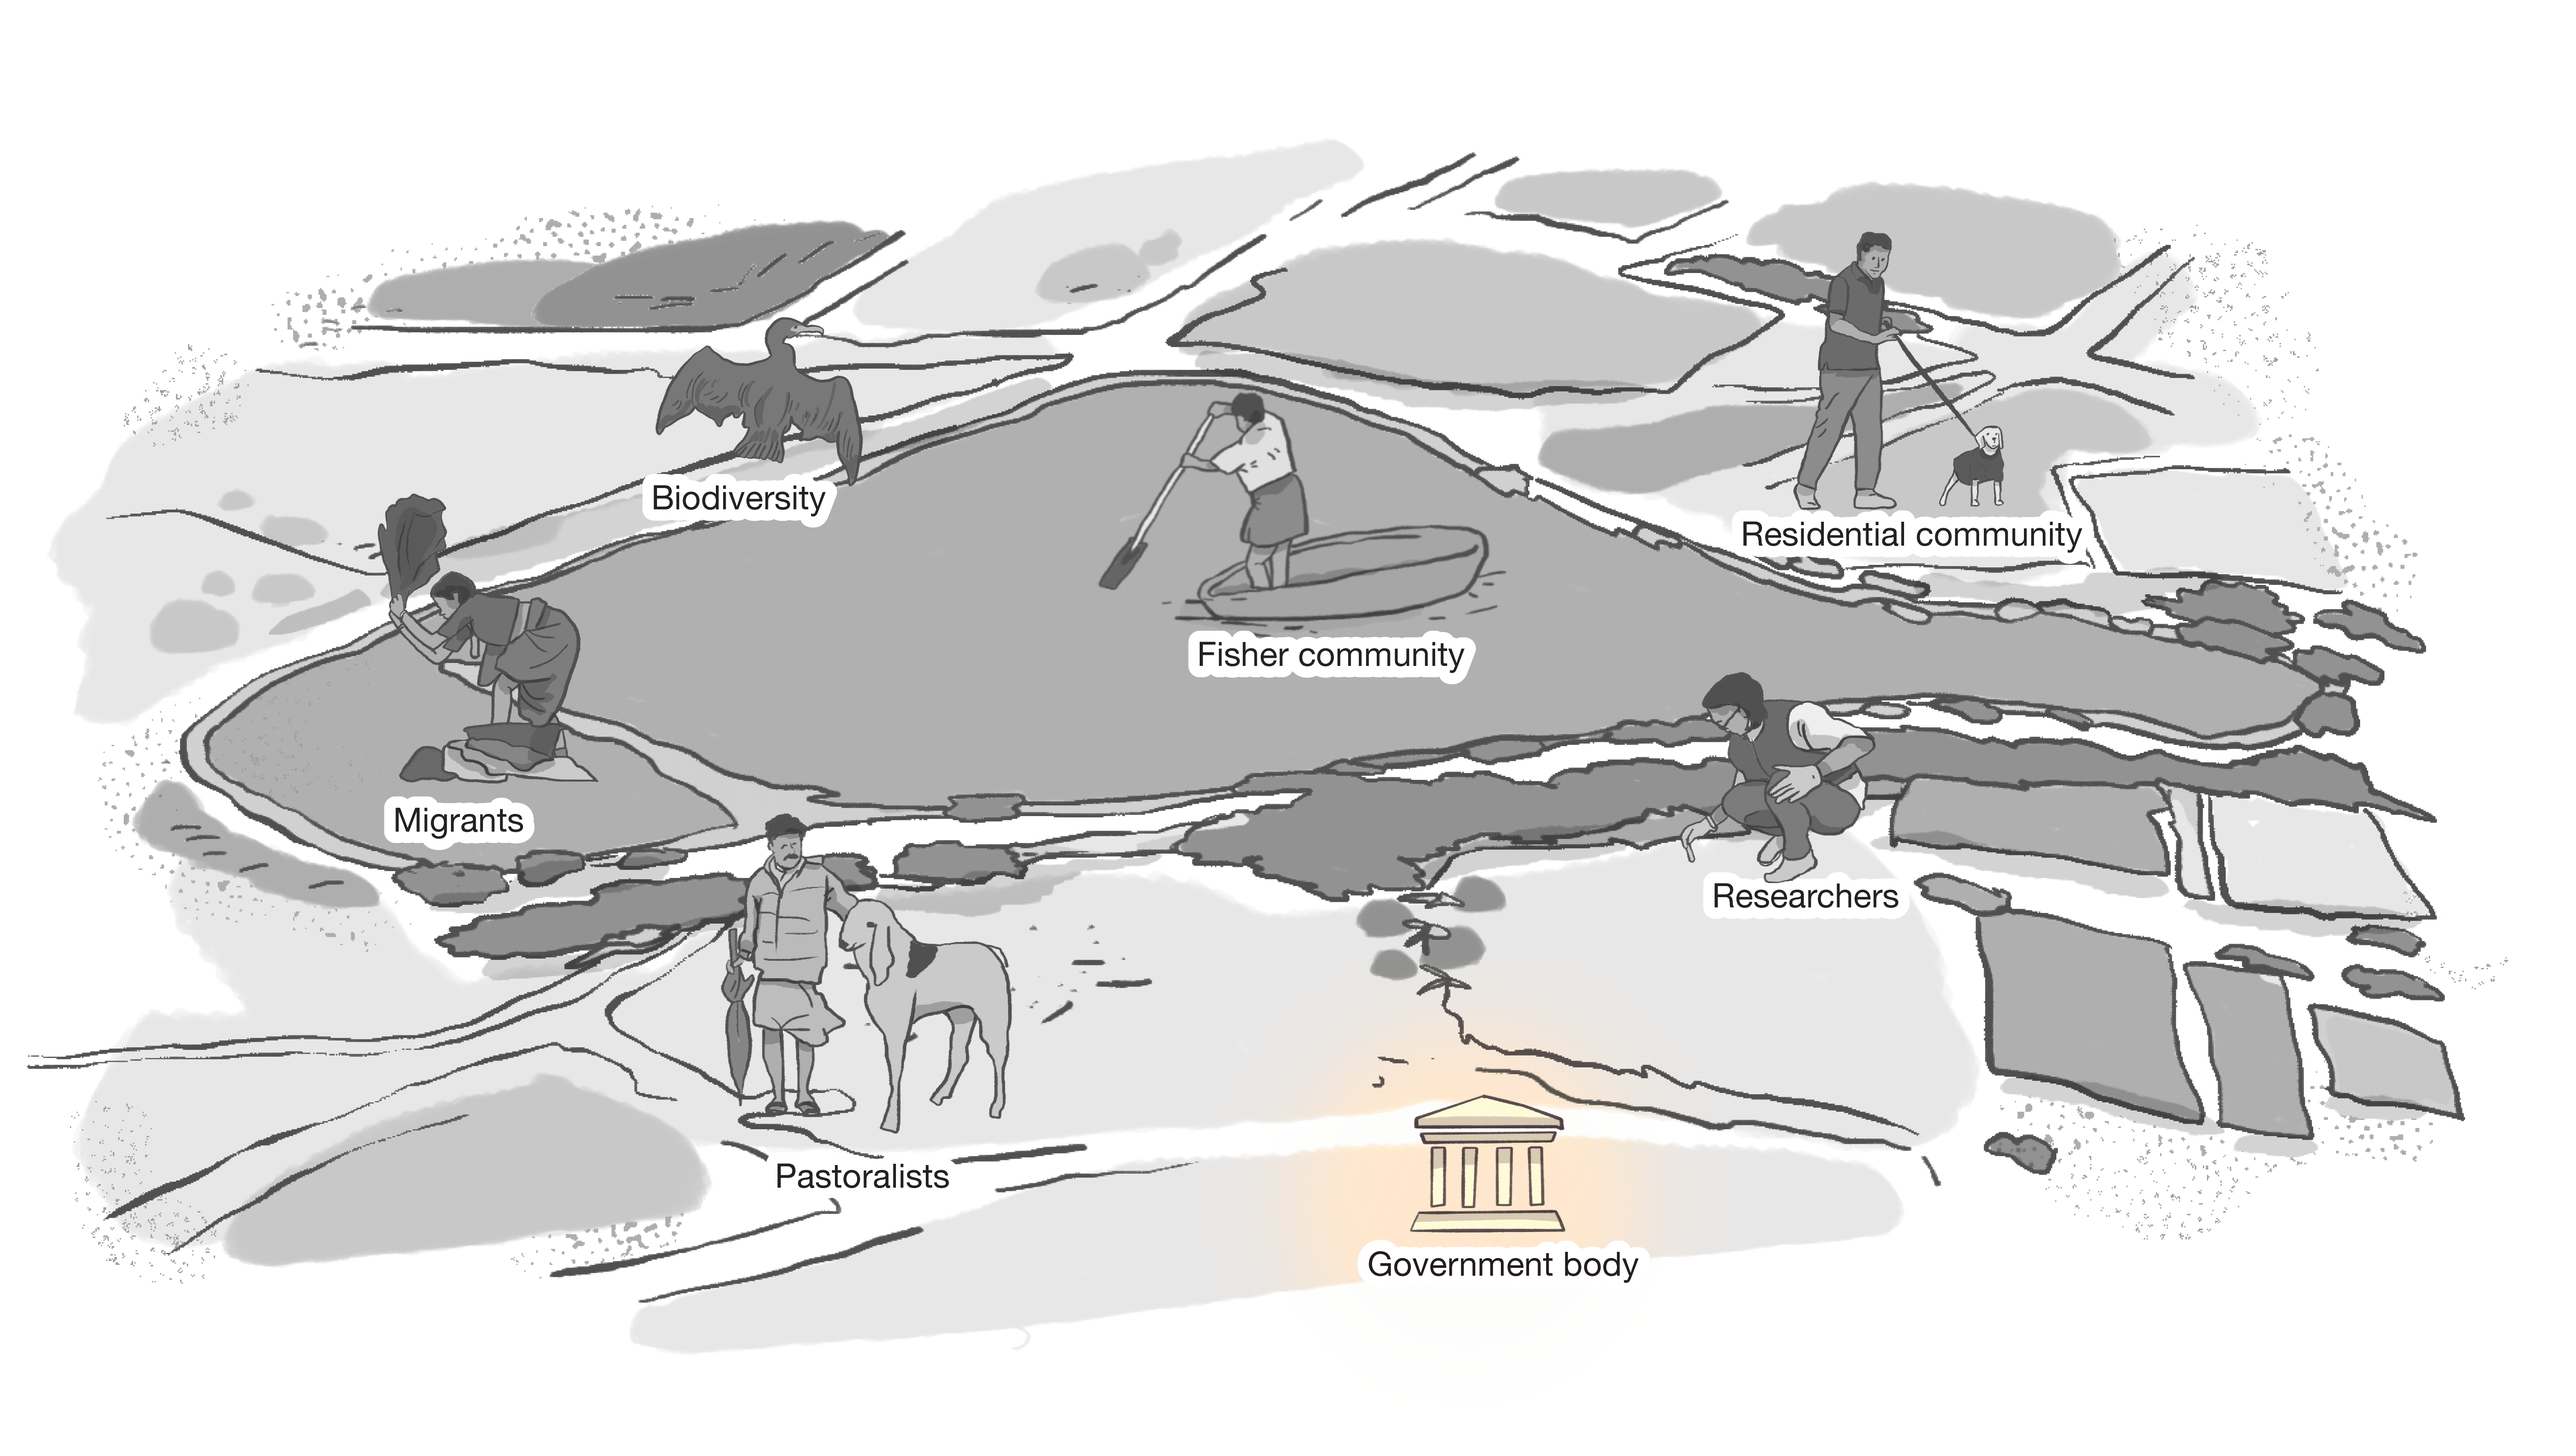
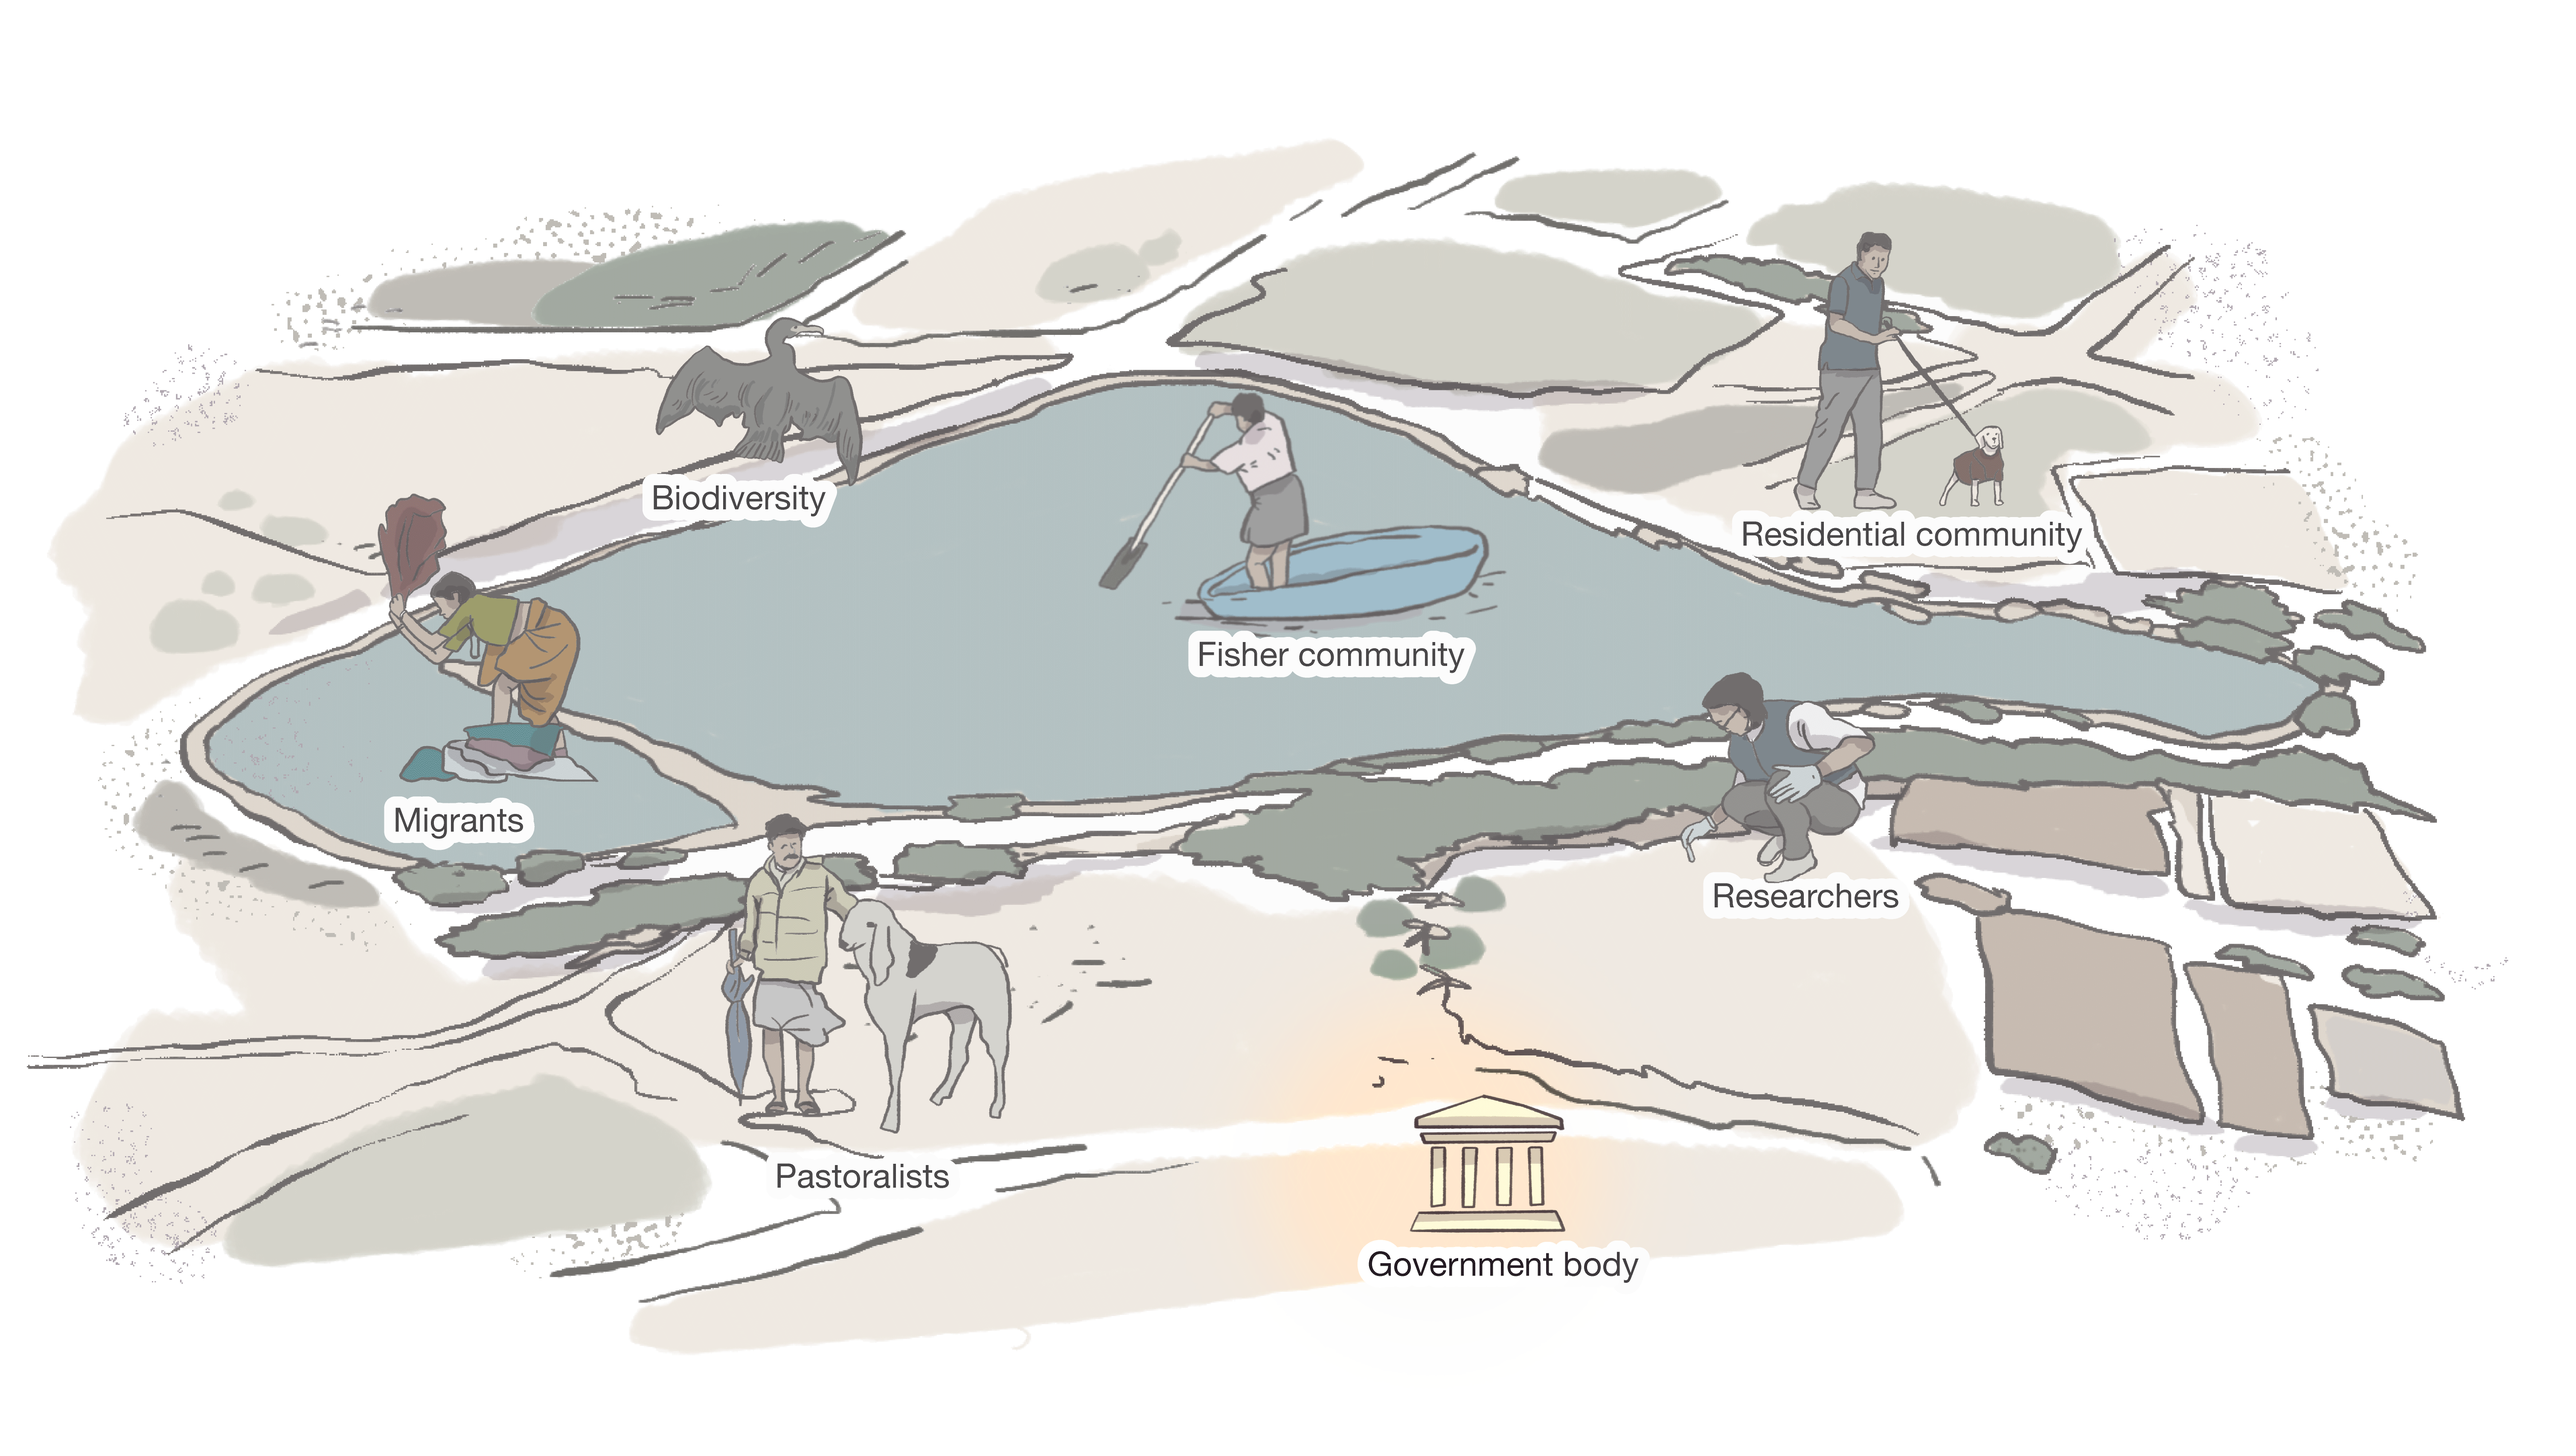
content change1

diff --git a/app/components/Accordion_transformation .tsx b/app/components/Accordion_transformation .tsx
@@ -105,7 +105,21 @@ const storySections: StorySection[] = [
 
                 </ul>
                 
-                <Video url="https://atree-communication.s3.amazonaws.com/Storymap_media/bee_resort_transformation.mp4"/>
+           
+
+                <div className='flex flex-col  md:flex-row gap-2'>
+                    <div className='md:w-1/2'>
+                    <Video url="https://atree-communication.s3.amazonaws.com/Storymap_media/pollinator%20thrive%20butterfly.mp4"/>
+                    </div>
+                    <div className='md:w-1/2'>
+                    <Video url="https://atree-communication.s3.amazonaws.com/Storymap_media/bee_resort_transformation.mp4"/>
+                    </div>
+                    
+
+                </div>
+
+                
+                
 
             </div>
         ),
@@ -127,16 +141,7 @@ const storySections: StorySection[] = [
                     <li>The crowning moment is the return of the Pied kingfisher, which seeks clean water to dive and hunt for fish.</li>
 
                 </ul>
-                <div className='flex flex-col  md:flex-row gap-2'>
-                    <div className='md:w-1/2'>
-                    <Video url="https://atree-communication.s3.amazonaws.com/Storymap_media/pollinator%20thrive%20butterfly.mp4"/>
-                    </div>
-                    <div className='md:w-1/2'>
-                    <Video url="https://atree-communication.s3.amazonaws.com/Storymap_media/Biodiversity_transformation.mp4"/>
-                    </div>
-                    
-
-                </div>
+                <Video url="https://atree-communication.s3.amazonaws.com/Storymap_media/Biodiversity_transformation.mp4"/>
                 
 
             </div>

diff --git a/app/components/Banner.tsx b/app/components/Banner.tsx
@@ -11,9 +11,9 @@ const Banner = () => {
         className="w-full h-[90vh] object-cover "  
        />
          {/* overlay */}
-         <div className="absolute top-0 left-0 bg-black z-5 w-full h-full opacity-30 "></div>
+         <div className="absolute top-0 left-0 bg-black z-5 w-full h-full opacity-0 "></div>
 
-       <h1 className=" absolute top-[50%] w-full text-white uppercase text-2xl font-bold px-10 z-10 text-center lg:text-4xl">Urban Lake Restoration Blueprint</h1>
+       <h1 className="  absolute top-[50%] w-full text-white uppercase text-2xl font-bold px-10 z-10 text-center lg:text-4xl">Urban Lake Restoration Blueprint</h1>
       
     </div>
   )

diff --git a/app/components/Pagebreak.tsx b/app/components/Pagebreak.tsx
@@ -8,12 +8,12 @@ const Pagebreak = ({image}:probs) => {
     const spacing = 'p-5 md:px-20 lg:px-40 md:pt-20  bg-white ';
   return (
      <div className={`w-full h-full ${spacing} flex  flex-col items-end pb-0   justify-center  `}>
-        <div className={`w-[80vw] flex   justify-center border-b-2 border-gray-100 border-dashed pt-20`}>
+        <div className={`w-[80vw] flex   justify-center  -100 border-dashed pt-50`}>
 
           <img
             src={image}
             alt='pagebreak'
-            className='h-[50px] object-conatin object-bottom '
+            className='h-[80px] object-conatin object-bottom '
 
           />
         </div>

diff --git a/app/components/Stakeholders.tsx b/app/components/Stakeholders.tsx
@@ -66,7 +66,7 @@ const Stakeholders = () => {
     {
       id: 'migrant',
       title: 'Migrants',
-      image: '/migrant.jpg',
+      image: '/migrant.png',
       description:
         'Migrant workers living nearby, who otherwise had to scout around for water to wash their clothes and vessels, could access the open and unfenced lake. Their children were always up for a quick dip, especially with plenty of rocks serving as diving boards.',
       map:"/stakeholdermap_migrant.png" 

diff --git a/app/components/Place.tsx b/app/components/Place.tsx
@@ -79,7 +79,7 @@ const Place = () => {
 
             <div className='relative w-full flex flex-col gap-2 md:flex-row' >
                 <img ref={imgref}
-                    src='lake_drawing_ai.png'
+                    src='place_map2.png'
                     className='w-full object-contain sticky top-12'
                 />
 
